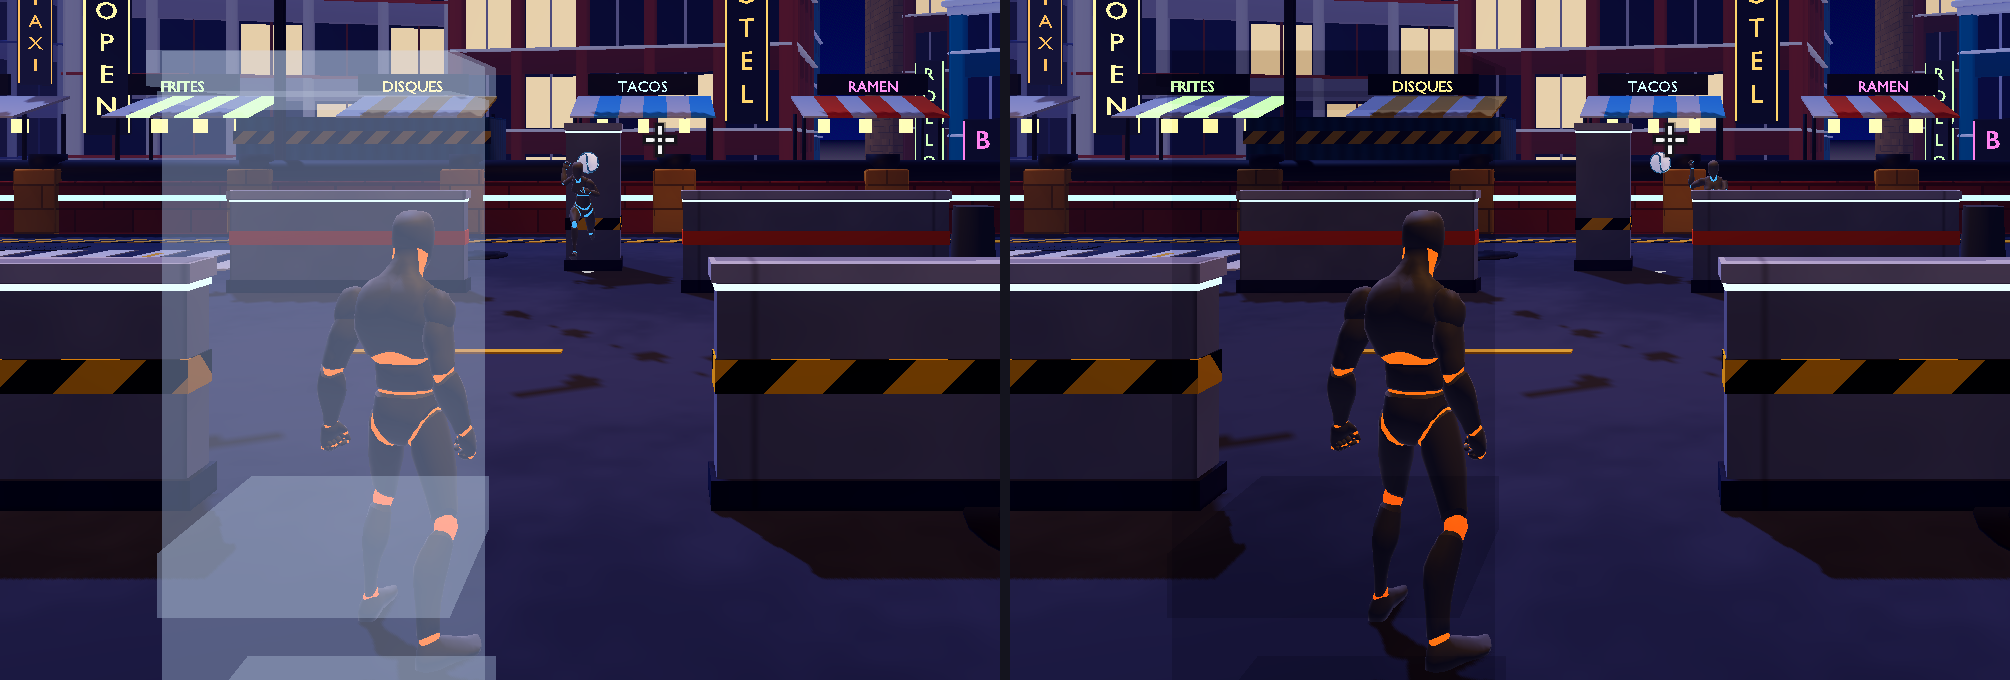
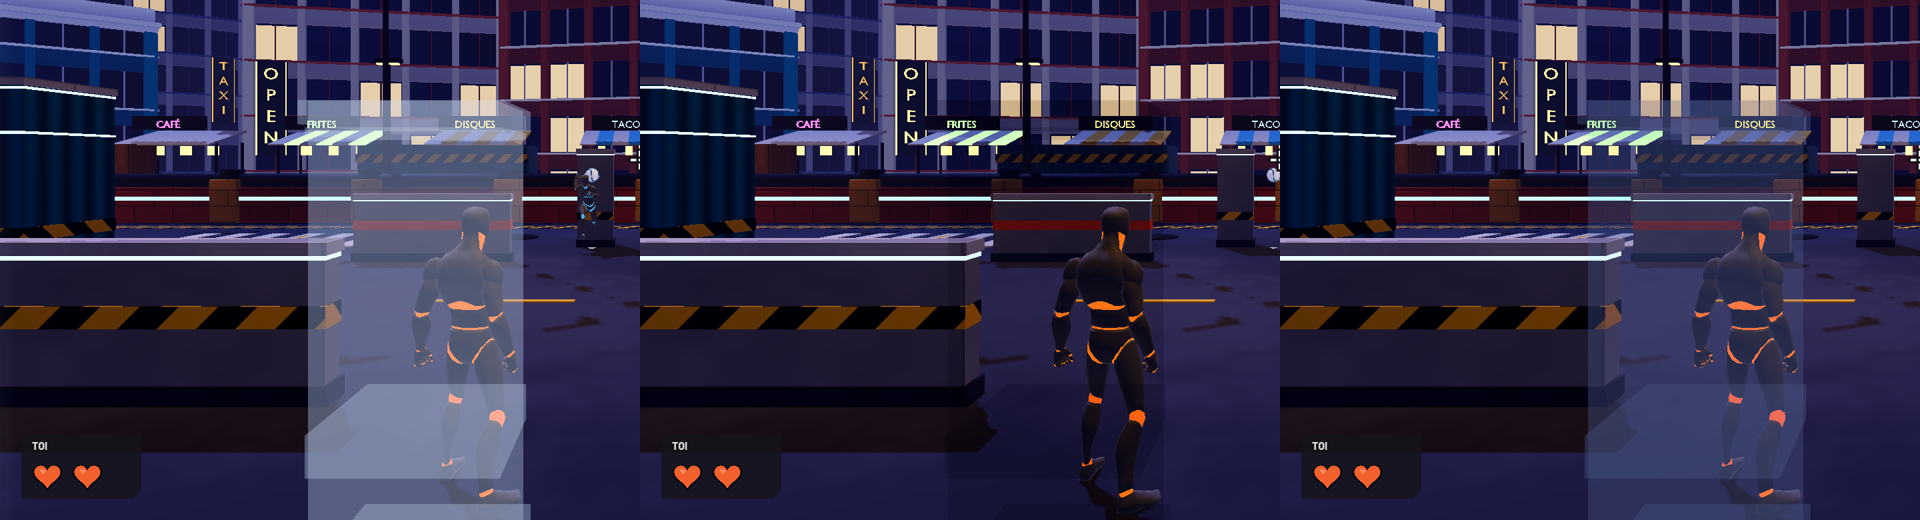
Manette : plus de réassignation fantôme, B ne quitte plus le salon seul, fin de partie lisible sur Steam Deck
- Options : pendant l'attente d'un nouveau bouton, la répétition du stick est coupée et les mouvements de stick sont
  avalés ; la répétition s'arrête aussi tant qu'un bouton d'action est enfoncé (A stick tenu valide la ligne visée).
- Salon : à la manette, B sélectionne QUITTER LA SALLE, A confirme ; au clavier, Échap deux fois.
- Pause : Y referme l'aide complète. Fin de partie : Entrée valide le bouton sélectionné (comme A).
- Fin de partie en 1280×800 : la colonne laisse la place de la barre d'XP et se réduit si besoin
  (les boutons passaient dessous).
- Couvert translucide en verre gris-bleu, visible de nuit sans voiler le joueur.
- PadWalk : touches entree / echap pour vérifier le clavier.
- Captures et relevés : production/qa/evidence/deck/, manette/parcours.md (troisième tour).

Claude-Session: https://claude.ai/code/session_01JqDGHfY1Ly5jn7p42vhJBj

diff --git a/scripts/UI/EndScreen.cs b/scripts/UI/EndScreen.cs
@@ -114,6 +114,7 @@ public partial class EndScreen : CanvasLayer
     /// </summary>
     /// <summary>Fin de la garde des appuis (voir <see cref="_Input"/>), en secondes depuis le lancement.</summary>
     double guardUntil;
+    Button? replayButton;
 
     void ShowStats()
     {
@@ -153,9 +154,21 @@ public partial class EndScreen : CanvasLayer
         col.SetAnchorsPreset(Control.LayoutPreset.FullRect);
         // Écran bas (interface agrandie : 1080 / 1,3 ≈ 830 px utiles) : titre plus petit et marges serrées, les boutons restent visibles.
         bool compact = host.GetViewportRect().Size.Y < 960f;
-        col.OffsetTop = compact ? 12 : 24; col.OffsetBottom = compact ? -112 : -160;   // bas : place du bandeau d'XP (XpBanner), les boutons restent visibles
+        col.OffsetTop = compact ? 12 : 24; col.OffsetBottom = compact ? -140 : -160;   // bas : place du bandeau d'XP (XpBanner, ~96 px de haut à 34 px du bord), les boutons restent visibles
         col.AddThemeConstantOverride("separation", compact ? 6 : 8);
         host.AddChild(col);
+        // Steam Deck (1280×800, interface ×1,3) : le tableau est plus haut que la place libre et passait sous le bandeau d'XP,
+        // par-dessus les boutons. La colonne est réduite d'un bloc, depuis le haut, pour finir au-dessus du bandeau.
+        void Fit()
+        {
+            if (!IsInstanceValid(col)) return;
+            float avail = host.GetViewportRect().Size.Y - col.OffsetTop + col.OffsetBottom;
+            float need = col.GetCombinedMinimumSize().Y;
+            col.PivotOffset = new Vector2(col.Size.X / 2, 0);
+            col.Scale = Vector2.One * (need > avail && need > 0 ? avail / need : 1f);
+        }
+        col.Resized += Fit;
+        Callable.From(Fit).CallDeferred();
 
         var title = UiKit.Title(win ? "VICTOIRE !" : "DÉFAITE", compact ? 90 : 112, HorizontalAlignment.Center, win ? UiKit.Yellow : new Color("9fb4d8"));
         title.CustomMinimumSize = new Vector2(0, compact ? 136 : 166);   // Anton : capitales hautes, interligne large
@@ -214,7 +227,7 @@ public partial class EndScreen : CanvasLayer
             if (BackToRoom && View.CanRestart)
                 buttons.AddChild(first = UiKit.KeyButton("SALLE", "Entrée", UiKit.Orange, BackNow, 30, new Vector2(260, 76), ""));
         }
-        else if (View.CanRestart) buttons.AddChild(first = UiKit.KeyButton("REJOUER", "Entrée", UiKit.Orange, Replay, 34, new Vector2(420, 76), ""));   // à la manette A valide le bouton sélectionné : pas de touche dessinée
+        else if (View.CanRestart) buttons.AddChild(replayButton = first = UiKit.KeyButton("REJOUER", "Entrée", UiKit.Orange, Replay, 34, new Vector2(420, 76), ""));   // à la manette A valide le bouton sélectionné : pas de touche dessinée
         else
         {
             var wait = UiKit.Text("En attente de l'hôte…", 32, UiKit.Sky, 8, HorizontalAlignment.Center);
@@ -316,6 +329,8 @@ public partial class EndScreen : CanvasLayer
         if (e is InputEventKey { Pressed: true, Echo: false } k && k.Keycode is Key.Enter or Key.KpEnter)
         {
             if (!replayKey) return;
+            // Un autre bouton sélectionné (MENU PRINCIPAL) : Entrée le valide lui, comme A à la manette.
+            if (GetViewport().GuiGetFocusOwner() is Button other && other != replayButton) return;
             GetViewport().SetInputAsHandled();
             Replay();
         }

diff --git a/scripts/UI/OptionsMenu.cs b/scripts/UI/OptionsMenu.cs
@@ -153,7 +153,7 @@ public partial class OptionsMenu : Control
         var bottom = new HBoxContainer { Alignment = BoxContainer.AlignmentMode.Center };
         bottom.AddThemeConstantOverride("separation", 16);
         col.AddChild(bottom);
-        var hints = new HBoxContainer { Alignment = BoxContainer.AlignmentMode.Center, MouseFilter = MouseFilterEnum.Ignore };
+        hints = new HBoxContainer { Alignment = BoxContainer.AlignmentMode.Center, MouseFilter = MouseFilterEnum.Ignore };
         hints.AddThemeConstantOverride("separation", 32);
         hints.AddChild(UiKit.KeyHint("Entrée", "Valider", 20, "A"));
         hints.AddChild(UiKit.KeyHint("Échap", "Retour", 20, "B"));
@@ -193,6 +193,7 @@ public partial class OptionsMenu : Control
     public override void _Process(double delta)
     {
         FitHeight();
+        hints.Visible = listening == null;   // pendant une réassignation, B serait pris comme nouveau bouton : pas de « B Retour »
         string bindings = InputSetup.UsingPad ? "MANETTE" : TabNames[1];   // l'onglet montre les boutons de la manette
         if (tabs[1].Text != bindings) tabs[1].Text = bindings;
         var bar = scroll.GetVScrollBar();
@@ -228,6 +229,8 @@ public partial class OptionsMenu : Control
                 RebuildAfterRebind();
                 return;
             }
+            // Stick pendant l'attente : avalé, sinon le focus quitterait la ligne qui attend son bouton.
+            if (e is InputEventJoypadMotion) { GetViewport().SetInputAsHandled(); return; }
             if (!key && !mouse) return;
             GetViewport().SetInputAsHandled();
             if (e is InputEventKey { PhysicalKeycode: Key.Escape } && listening != "pause") { RebuildAfterRebind(); return; }   // remet la touche affichée
@@ -272,8 +275,13 @@ public partial class OptionsMenu : Control
             if (c is Button b) { b.CallDeferred(Control.MethodName.GrabFocus); break; }
     }
 
+    HBoxContainer hints = null!;
+
+    public override void _ExitTree() => InputSetup.Capturing = false;
+
     void StopListening()
     {
+        InputSetup.Capturing = false;
         listening = null;
         listeningButton = null;
     }
@@ -465,6 +473,7 @@ public partial class OptionsMenu : Control
         b.Pressed += () =>
         {
             listening = a.Name;
+            InputSetup.Capturing = true;
             listeningButton = b;
             b.Text = "Appuie…";
             UiKit.Tint(b, UiKit.Pink, UiKit.Pink.Darkened(0.35f));

diff --git a/scripts/Tools/PadWalk.cs b/scripts/Tools/PadWalk.cs
@@ -7,7 +7,7 @@ namespace DogeballVR.Tools;
 /// Parcours des écrans à la manette, sans manette : <c>--pad-walk=bas,bas,a,shot,b</c> envoie un appui toutes les
 /// 0,4 s (après 2 s d'attente) et écrit à chaque fois le contrôle qui a le focus (« [Manette] 3 bas → … »).
 /// Appuis : <c>haut bas gauche droite</c> (croix), <c>s-haut s-bas s-gauche s-droite</c> (stick gauche),
-/// <c>a b x y lb rb start back</c>, <c>pause</c> (rien pendant 0,4 s), <c>APPUI+</c> (tenu jusqu'à <c>lache</c>),
+/// <c>a b x y lb rb start back</c>, <c>entree echap</c> (clavier), <c>pause</c> (rien pendant 0,4 s), <c>APPUI+</c> (tenu jusqu'à <c>lache</c>),
 /// <c>flot-bas</c>… (rafale de valeurs comme un vrai stick), <c>shot</c> (capture PNG dans
 /// <c>--pad-walk-shots=DOSSIER</c>, nommée <c>pad-NN.png</c>). Le jeu se ferme à la fin du parcours.
 /// Outil de développement (preuve que chaque écran se parcourt à la manette).
@@ -85,6 +85,9 @@ public partial class PadWalk : Node
         ["lb"] = JoyButton.LeftShoulder, ["rb"] = JoyButton.RightShoulder, ["start"] = JoyButton.Start, ["back"] = JoyButton.Back,
     };
 
+    /// <summary>Touches clavier, pour vérifier qu'elles suivent le même focus que la manette.</summary>
+    static readonly Dictionary<string, Key> Keys = new() { ["entree"] = Key.Enter, ["echap"] = Key.Escape };
+
     static readonly Dictionary<string, (JoyAxis axis, float sign)> Sticks = new()
     {
         ["s-haut"] = (JoyAxis.LeftY, -1f), ["s-bas"] = (JoyAxis.LeftY, 1f), ["s-gauche"] = (JoyAxis.LeftX, -1f), ["s-droite"] = (JoyAxis.LeftX, 1f),
@@ -94,6 +97,8 @@ public partial class PadWalk : Node
     {
         if (Buttons.TryGetValue(step, out var b))
             Input.ParseInputEvent(new InputEventJoypadButton { ButtonIndex = b, Pressed = down, Device = 0 });
+        else if (Keys.TryGetValue(step, out var k))
+            Input.ParseInputEvent(new InputEventKey { Keycode = k, PhysicalKeycode = k, Pressed = down });
         else if (Sticks.TryGetValue(step, out var s))
             Input.ParseInputEvent(new InputEventJoypadMotion { Axis = s.axis, AxisValue = down ? s.sign : 0f, Device = 0 });
         else return false;

diff --git a/scripts/UI/InputSetup.cs b/scripts/UI/InputSetup.cs
@@ -200,6 +200,9 @@ public static class InputSetup
     /// <summary>Dernier appareil utilisé : manette (aides en boutons de manette) ou clavier-souris. Manette d'emblée sur Steam Deck.</summary>
     public static bool UsingPad { get; private set; } = GameSettings.OnSteamDeck;
 
+    /// <summary>Écran qui attend un nouveau bouton (réassignation) : pas de répétition de la croix, elle serait prise pour le bouton choisi.</summary>
+    public static bool Capturing { get; set; }
+
     public static void Track(InputEvent e)
     {
         if (e is InputEventJoypadButton { Pressed: true } || e is InputEventJoypadMotion jm && Mathf.Abs(jm.AxisValue) > 0.5f) UsingPad = true;
@@ -314,7 +317,9 @@ public partial class InputDeviceWatch : Node
     public override void _Process(double delta)
     {
         bool any = stick[0] != 0 || stick[1] != 0 || dpad != null;
-        if (!any || !Focused()) { held = 0; nextRepeat = RepeatDelay; return; }
+        // Pas de répétition pendant une réassignation, ni tant qu'un bouton d'action est enfoncé : A pressé stick tenu
+        // valide la ligne visée au lieu de laisser le focus filer avant le relâché (le bouton agit au relâché).
+        if (!any || !Focused() || InputSetup.Capturing || FaceHeld()) { held = 0; nextRepeat = RepeatDelay; return; }
         held += delta;
         if (held < nextRepeat) return;
         nextRepeat += RepeatEvery;
@@ -329,4 +334,14 @@ public partial class InputDeviceWatch : Node
     }
 
     bool Focused() => GetViewport().GuiGetFocusOwner() != null;
+
+    static bool FaceHeld()
+    {
+        var pads = Input.GetConnectedJoypads();
+        if (pads.Count == 0) pads.Add(0);   // manette simulée (--pad-walk) : appareil 0
+        foreach (var d in pads)
+            foreach (var b in new[] { JoyButton.A, JoyButton.B, JoyButton.X, JoyButton.Y })
+                if (Input.IsJoyButtonPressed((int)d, b)) return true;
+        return false;
+    }
 }

diff --git a/scripts/Gameplay/DesktopPlayer.cs b/scripts/Gameplay/DesktopPlayer.cs
@@ -1437,7 +1437,7 @@ public partial class DesktopPlayer : Node3D
         ghostMat ??= new StandardMaterial3D
         {
             Transparency = BaseMaterial3D.TransparencyEnum.Alpha, ShadingMode = BaseMaterial3D.ShadingModeEnum.Unshaded,
-            AlbedoColor = new Color(0.08f, 0.08f, 0.11f, 0.2f), CullMode = BaseMaterial3D.CullModeEnum.Back,   // encre légère : le couvert assombrit un peu au lieu de voiler le joueur de blanc
+            AlbedoColor = new Color(0.32f, 0.35f, 0.45f, 0.3f), CullMode = BaseMaterial3D.CullModeEnum.Back,   // gris-bleu moyen : le couvert reste lisible de jour comme de nuit sans voiler le joueur de blanc
         };
         var keep = new System.Collections.Generic.HashSet<MeshInstance3D>();
         var roots = new System.Collections.Generic.List<Node3D>(coversThrough);

diff --git a/scripts/Online/LobbyScreen.cs b/scripts/Online/LobbyScreen.cs
@@ -580,7 +580,8 @@ void fragment() {
             var buttons = new List<Button>();
             Collect(content, buttons);
             var quit = buttons.FirstOrDefault(b => b.Text == "QUITTER LA SALLE");
-            if (quit != null && GetViewport().GuiGetFocusOwner() != quit) { quit.GrabFocus(); return; }
+            // Manette : B est aussi l'esquive (deux charges, on l'enchaîne) ; il ne quitte jamais seul, A confirme sur le bouton.
+            if (quit != null && (GetViewport().GuiGetFocusOwner() != quit || e is InputEventJoypadButton)) { quit.GrabFocus(); return; }
             Sfx.Play(this, SfxKind.UiBack);
             BackToMenu();
         }

diff --git a/scripts/UI/PauseMenu.cs b/scripts/UI/PauseMenu.cs
@@ -265,7 +265,8 @@ public partial class PauseMenu : CanvasLayer
 
         public override void _Input(InputEvent e)
         {
-            if (!e.IsActionPressed("pause") && !e.IsActionPressed("ui_cancel") && !e.IsActionPressed("help") && !e.IsActionPressed("scoreboard")) return;
+            if (!e.IsActionPressed("pause") && !e.IsActionPressed("ui_cancel") && !e.IsActionPressed("help") && !e.IsActionPressed("scoreboard")
+                && e is not InputEventJoypadButton { Pressed: true, ButtonIndex: JoyButton.Y }) return;   // Y l'ouvre, Y la referme
             GetViewport().SetInputAsHandled();
             Close();
         }

diff --git a/production/qa/evidence/manette/parcours.md b/production/qa/evidence/manette/parcours.md
@@ -67,4 +67,28 @@ Corrigé après la revue indépendante :
 
 - Steam Deck : les mouvements du pavé tactile ne repassent plus les aides au clavier.
 
+## Troisième tour (après revue : 7/10)
+
+- réassignation : pendant l'attente du nouveau bouton, ni la répétition du stick ni un nouveau mouvement de stick ne
+  bougent la sélection (plus de « Croix bas » enregistré par erreur) ; A pressé stick tenu valide la ligne visée ;
+- salon : à la manette, B ne fait que sélectionner QUITTER LA SALLE, il faut A pour partir (B ×3 : on reste dans la salle) ;
+- pause : Y ouvre et referme l'aide complète ; fin de partie : Entrée valide le bouton sélectionné, comme A ;
+- Steam Deck : à la fin de partie, le tableau passait sous la barre d'XP et cachait la moitié des boutons
+  (`deck/avant-fin-1280x800.png`) ; la colonne laisse la place de la barre et se réduit si besoin (`deck/fin-1280x800.png`) ;
+- couvert translucide : verre gris-bleu (ni voile laiteux, ni presque invisible la nuit),
+  `couvert-transparent-avant-apres.png` (avant, deuxième tour, maintenant).
+
+```
+[Manette] 9 s-bas+ → « Stick G »        (stick tenu…)
+[Manette] 11 a → « Appuie… »            (A stick tenu : la ligne Sauter attend)
+[Manette] 13 pause → « Appuie… »        (stick toujours tenu : rien ne bouge)
+[Manette] 17 s-bas → « Appuie… »        (nouveau mouvement : avalé)
+[Manette] 3 b → « QUITTER LA SALLE »  /  5 b, 7 b → « QUITTER LA SALLE »   (on reste dans la salle)
+[Manette] 7 y → « RETOUR »  /  10 y → « REPRENDRE »                         (aide ouverte puis refermée)
+[Manette] 52 s-droite → « Menu »  /  entree → menu principal                (Entrée suit la sélection)
+```
+
+Captures au format Deck : `deck/pause-1280x800.png`, `deck/pause-aide-1280x800.png`, `deck/fin-1280x800.png`,
+`deck/hud-1280x800.png`, `deck/options-reassignation-1280x800.png`.
+
 Restent à vérifier sur un vrai Deck : stick physique, pavé tactile, clavier de Steam pour le code de salle.
